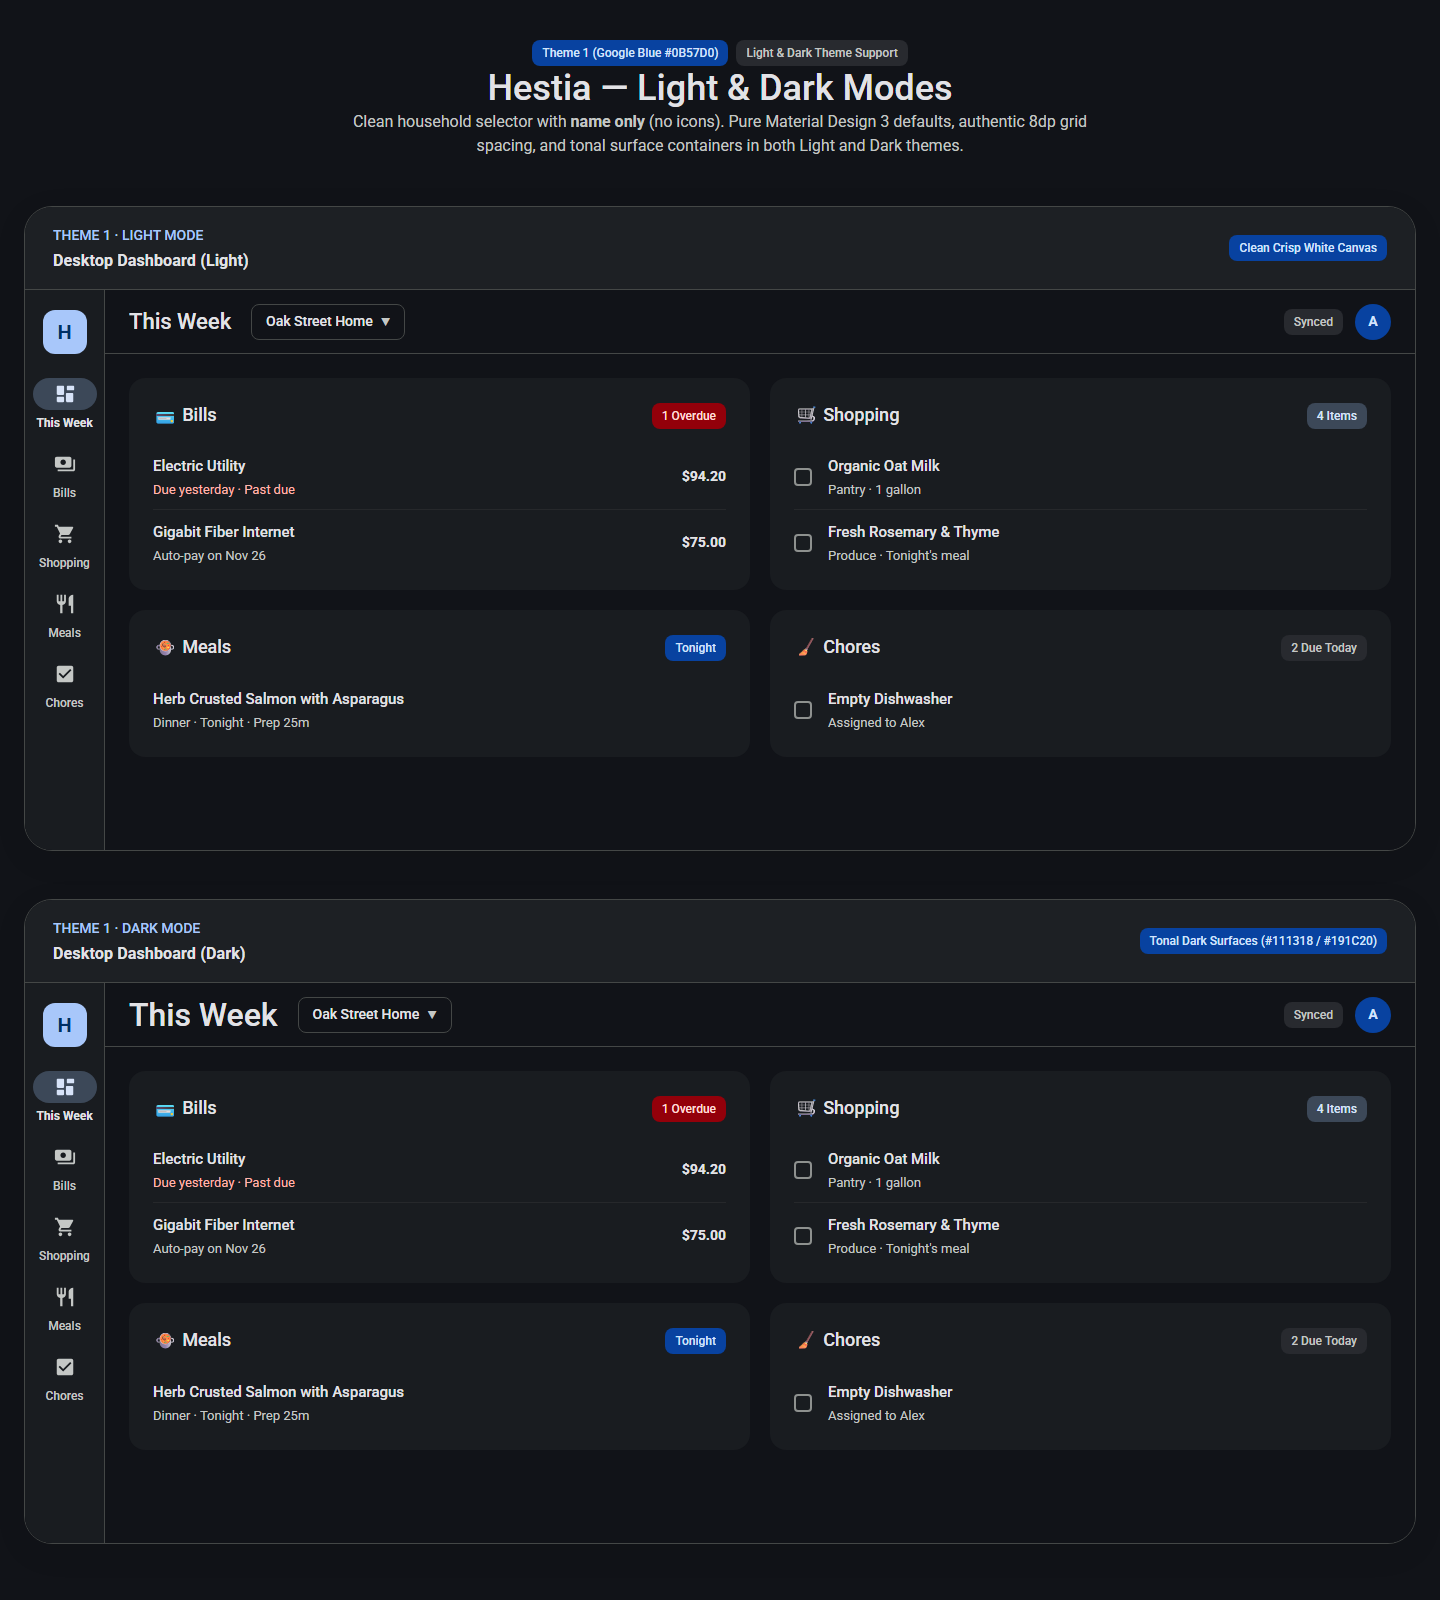
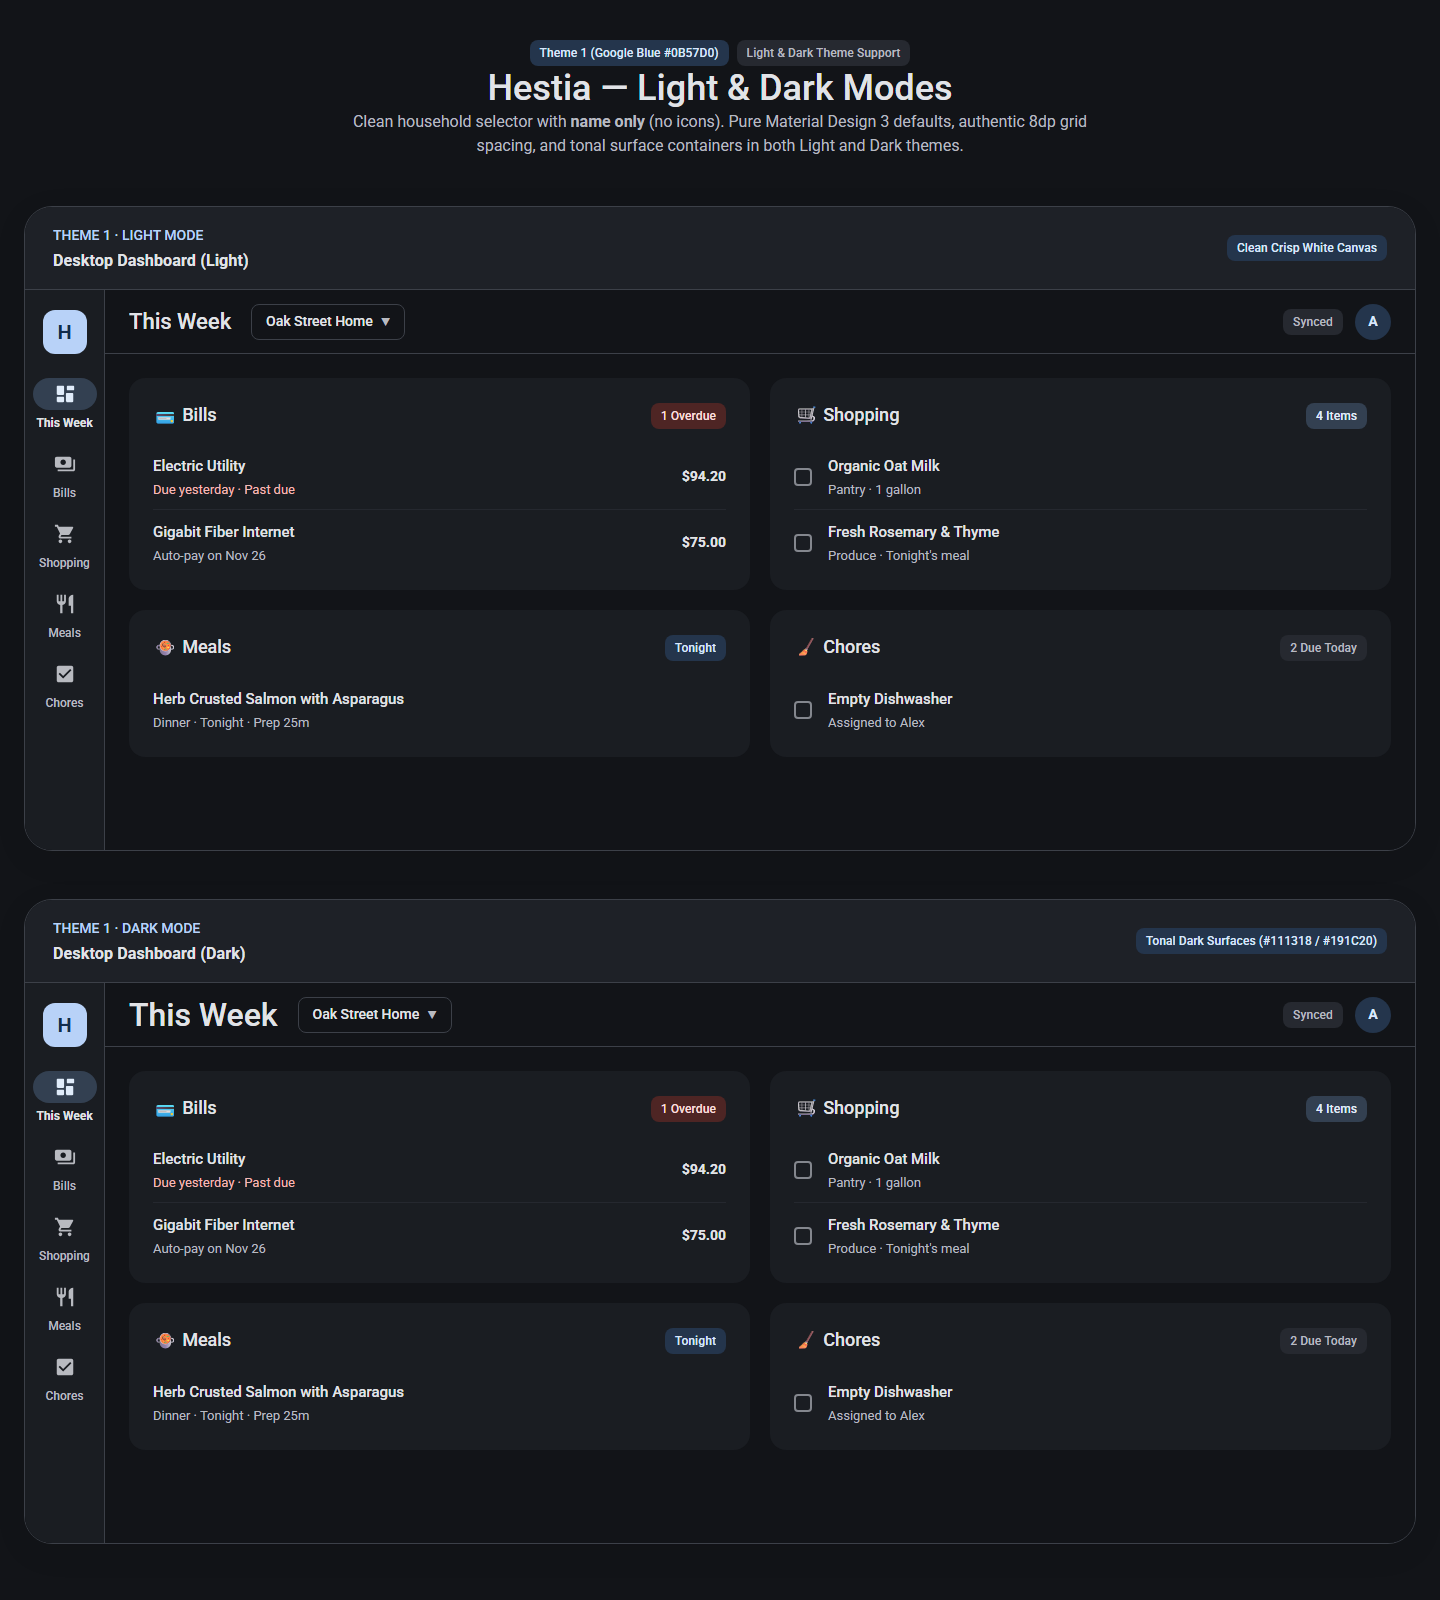
docs(web): tune dark mode to soft pastel palette

diff --git a/.planning/spikes/006-theme-1-light-dark-showcase/theme1-tokens.css b/.planning/spikes/006-theme-1-light-dark-showcase/theme1-tokens.css
@@ -1,24 +1,24 @@
-/* Theme 1: Google Material 3 Blue (#0B57D0) — Light & Dark Specifications */
+/* Theme 1: Google Material 3 Blue — Refined Pastel Palette (Light & Dark) */
 
 :root {
   --md3-font: 'Roboto', system-ui, -apple-system, BlinkMacSystemFont, 'Segoe UI', sans-serif;
   color-scheme: light dark;
 
-  /* === LIGHT THEME === */
-  --md-sys-color-primary: #0b57d0;
+  /* === LIGHT THEME (Soft, Clean, Balanced) === */
+  --md-sys-color-primary: #1a73e8;
   --md-sys-color-on-primary: #ffffff;
   --md-sys-color-primary-container: #d3e3fd;
   --md-sys-color-on-primary-container: #041e49;
   
-  --md-sys-color-secondary: #535f70;
+  --md-sys-color-secondary: #576579;
   --md-sys-color-on-secondary: #ffffff;
-  --md-sys-color-secondary-container: #d7e3f8;
-  --md-sys-color-on-secondary-container: #101c2b;
+  --md-sys-color-secondary-container: #dbe4f4;
+  --md-sys-color-on-secondary-container: #141f2e;
   
-  --md-sys-color-tertiary: #6e5676;
+  --md-sys-color-tertiary: #715873;
   --md-sys-color-on-tertiary: #ffffff;
   --md-sys-color-tertiary-container: #f7d8ff;
-  --md-sys-color-on-tertiary-container: #271430;
+  --md-sys-color-on-tertiary-container: #29152d;
   
   --md-sys-color-error: #ba1a1a;
   --md-sys-color-on-error: #ffffff;
@@ -29,9 +29,9 @@
   --md-sys-color-surface-dim: #ded8e1;
   --md-sys-color-surface-bright: #ffffff;
   --md-sys-color-surface-container-lowest: #ffffff;
-  --md-sys-color-surface-container-low: #f7f9fc;
-  --md-sys-color-surface-container: #f0f4f9;
-  --md-sys-color-surface-container-high: #e9eef6;
+  --md-sys-color-surface-container-low: #f8fafd;
+  --md-sys-color-surface-container: #f1f4f9;
+  --md-sys-color-surface-container-high: #e9eef5;
   --md-sys-color-surface-container-highest: #e1e7f0;
   
   --md-sys-color-on-surface: #1f1f1f;
@@ -39,82 +39,84 @@
   --md-sys-color-outline: #747775;
   --md-sys-color-outline-variant: #c4c7c5;
 
-  /* Elevation (Soft M3 Ambient Tonal Elevation) */
-  --md-elevation-1: 0 1px 2px 0 rgba(0, 0, 0, 0.05), 0 1px 3px 1px rgba(0, 0, 0, 0.06);
-  --md-elevation-2: 0 2px 4px 0 rgba(0, 0, 0, 0.06), 0 2px 6px 2px rgba(0, 0, 0, 0.06);
-  --md-elevation-3: 0 4px 8px 3px rgba(0, 0, 0, 0.08), 0 1px 3px 0 rgba(0, 0, 0, 0.1);
+  /* Elevation (Soft Ambient Tonal Elevation) */
+  --md-elevation-1: 0 1px 2px 0 rgba(0, 0, 0, 0.04), 0 1px 3px 1px rgba(0, 0, 0, 0.05);
+  --md-elevation-2: 0 2px 4px 0 rgba(0, 0, 0, 0.05), 0 2px 6px 2px rgba(0, 0, 0, 0.05);
+  --md-elevation-3: 0 4px 8px 3px rgba(0, 0, 0, 0.06), 0 1px 3px 0 rgba(0, 0, 0, 0.08);
 }
 
-/* === DARK THEME === */
+/* === DARK THEME (Soft, Desaturated, Pastel Palette) === */
 [data-theme='dark'] {
   color-scheme: dark;
   
-  --md-sys-color-primary: #a8c7fa;
-  --md-sys-color-on-primary: #002f65;
-  --md-sys-color-primary-container: #0842a0;
-  --md-sys-color-on-primary-container: #d3e3fd;
+  /* Pastel Accent Colors */
+  --md-sys-color-primary: #b8d2f8; /* Soft Pastel Powder Blue */
+  --md-sys-color-on-primary: #122c4d;
+  --md-sys-color-primary-container: #24354c; /* Desaturated Slate-Blue Container */
+  --md-sys-color-on-primary-container: #d9e7fc;
   
-  --md-sys-color-secondary: #bdc7dc;
-  --md-sys-color-on-secondary: #253140;
-  --md-sys-color-secondary-container: #3c4858;
-  --md-sys-color-on-secondary-container: #d7e3f8;
+  --md-sys-color-secondary: #c2cfdf; /* Soft Pastel Slate */
+  --md-sys-color-on-secondary: #212c39;
+  --md-sys-color-secondary-container: #334051; /* Muted Navy Container */
+  --md-sys-color-on-secondary-container: #e0ecfa;
   
-  --md-sys-color-tertiary: #dabde2;
-  --md-sys-color-on-tertiary: #3d2846;
-  --md-sys-color-tertiary-container: #553e5d;
-  --md-sys-color-on-tertiary-container: #f7d8ff;
+  --md-sys-color-tertiary: #debfdc; /* Soft Pastel Mauve / Rose */
+  --md-sys-color-on-tertiary: #3a253a;
+  --md-sys-color-tertiary-container: #473549; /* Muted Plum Container */
+  --md-sys-color-on-tertiary-container: #f5def4;
   
-  --md-sys-color-error: #ffb4ab;
-  --md-sys-color-on-error: #690005;
-  --md-sys-color-error-container: #93000a;
-  --md-sys-color-on-error-container: #ffdad6;
+  --md-sys-color-error: #f2b8b5; /* Soft Pastel Blush / Coral */
+  --md-sys-color-on-error: #561e1b;
+  --md-sys-color-error-container: #4e2524; /* Muted Brick Container */
+  --md-sys-color-on-error-container: #f9dedc;
   
-  --md-sys-color-surface: #111318;
-  --md-sys-color-surface-dim: #111318;
-  --md-sys-color-surface-bright: #37393e;
-  --md-sys-color-surface-container-lowest: #0c0e13;
-  --md-sys-color-surface-container-low: #191c20;
-  --md-sys-color-surface-container: #1d2024;
-  --md-sys-color-surface-container-high: #282a2f;
-  --md-sys-color-surface-container-highest: #33353a;
+  /* Dark Surfaces (Soothing deep neutral tones, low eye strain) */
+  --md-sys-color-surface: #121418;
+  --md-sys-color-surface-dim: #121418;
+  --md-sys-color-surface-bright: #35383f;
+  --md-sys-color-surface-container-lowest: #0d0f13;
+  --md-sys-color-surface-container-low: #1a1d22;
+  --md-sys-color-surface-container: #1e2127;
+  --md-sys-color-surface-container-high: #262930;
+  --md-sys-color-surface-container-highest: #2f323a;
   
-  --md-sys-color-on-surface: #e2e2e6;
-  --md-sys-color-on-surface-variant: #c4c7c5;
-  --md-sys-color-outline: #8e918f;
-  --md-sys-color-outline-variant: #444746;
+  --md-sys-color-on-surface: #e1e3e7;
+  --md-sys-color-on-surface-variant: #b8bac0;
+  --md-sys-color-outline: #84878e;
+  --md-sys-color-outline-variant: #3c4048;
 }
 
 @media (prefers-color-scheme: dark) {
   :root:not([data-theme='light']) {
     color-scheme: dark;
-    --md-sys-color-primary: #a8c7fa;
-    --md-sys-color-on-primary: #002f65;
-    --md-sys-color-primary-container: #0842a0;
-    --md-sys-color-on-primary-container: #d3e3fd;
-    --md-sys-color-secondary: #bdc7dc;
-    --md-sys-color-on-secondary: #253140;
-    --md-sys-color-secondary-container: #3c4858;
-    --md-sys-color-on-secondary-container: #d7e3f8;
-    --md-sys-color-tertiary: #dabde2;
-    --md-sys-color-on-tertiary: #3d2846;
-    --md-sys-color-tertiary-container: #553e5d;
-    --md-sys-color-on-tertiary-container: #f7d8ff;
-    --md-sys-color-error: #ffb4ab;
-    --md-sys-color-on-error: #690005;
-    --md-sys-color-error-container: #93000a;
-    --md-sys-color-on-error-container: #ffdad6;
-    --md-sys-color-surface: #111318;
-    --md-sys-color-surface-dim: #111318;
-    --md-sys-color-surface-bright: #37393e;
-    --md-sys-color-surface-container-lowest: #0c0e13;
-    --md-sys-color-surface-container-low: #191c20;
-    --md-sys-color-surface-container: #1d2024;
-    --md-sys-color-surface-container-high: #282a2f;
-    --md-sys-color-surface-container-highest: #33353a;
-    --md-sys-color-on-surface: #e2e2e6;
-    --md-sys-color-on-surface-variant: #c4c7c5;
-    --md-sys-color-outline: #8e918f;
-    --md-sys-color-outline-variant: #444746;
+    --md-sys-color-primary: #b8d2f8;
+    --md-sys-color-on-primary: #122c4d;
+    --md-sys-color-primary-container: #24354c;
+    --md-sys-color-on-primary-container: #d9e7fc;
+    --md-sys-color-secondary: #c2cfdf;
+    --md-sys-color-on-secondary: #212c39;
+    --md-sys-color-secondary-container: #334051;
+    --md-sys-color-on-secondary-container: #e0ecfa;
+    --md-sys-color-tertiary: #debfdc;
+    --md-sys-color-on-tertiary: #3a253a;
+    --md-sys-color-tertiary-container: #473549;
+    --md-sys-color-on-tertiary-container: #f5def4;
+    --md-sys-color-error: #f2b8b5;
+    --md-sys-color-on-error: #561e1b;
+    --md-sys-color-error-container: #4e2524;
+    --md-sys-color-on-error-container: #f9dedc;
+    --md-sys-color-surface: #121418;
+    --md-sys-color-surface-dim: #121418;
+    --md-sys-color-surface-bright: #35383f;
+    --md-sys-color-surface-container-lowest: #0d0f13;
+    --md-sys-color-surface-container-low: #1a1d22;
+    --md-sys-color-surface-container: #1e2127;
+    --md-sys-color-surface-container-high: #262930;
+    --md-sys-color-surface-container-highest: #2f323a;
+    --md-sys-color-on-surface: #e1e3e7;
+    --md-sys-color-on-surface-variant: #b8bac0;
+    --md-sys-color-outline: #84878e;
+    --md-sys-color-outline-variant: #3c4048;
   }
 }
 
@@ -185,7 +187,7 @@ body {
   min-height: 56px;
   padding: 10px 0;
   border-bottom: 1px solid var(--md-sys-color-outline-variant);
-  border-bottom-color: color-mix(in srgb, var(--md-sys-color-outline-variant) 30%, transparent);
+  border-bottom-color: color-mix(in srgb, var(--md-sys-color-outline-variant) 35%, transparent);
 }
 .m3-list-item:last-child { border-bottom: none; padding-bottom: 0; }
 .m3-list-item-content { display: flex; align-items: center; gap: 16px; flex: 1; }
@@ -193,7 +195,7 @@ body {
 .m3-list-headline { font-size: 0.9375rem; font-weight: 500; color: var(--md-sys-color-on-surface); }
 .m3-list-supporting { font-size: 0.8125rem; font-weight: 400; color: var(--md-sys-color-on-surface-variant); }
 
-/* --- Official M3 House Selector Dropdown (Name Only + Subtle Arrow) --- */
+/* --- House Selector Dropdown (Name Only + Subtle Arrow) --- */
 .m3-household-selector {
   display: inline-flex;
   align-items: center;
@@ -218,7 +220,7 @@ body {
   color: var(--md-sys-color-on-surface-variant);
 }
 
-/* --- Badges & Chips --- */
+/* --- Pastel Badges & Chips --- */
 .m3-badge {
   display: inline-flex;
   align-items: center;
@@ -227,9 +229,11 @@ body {
   border-radius: 8px;
   font-size: 0.75rem;
   font-weight: 500;
+  letter-spacing: 0.1px;
 }
 .m3-badge-primary { background: var(--md-sys-color-primary-container); color: var(--md-sys-color-on-primary-container); }
 .m3-badge-secondary { background: var(--md-sys-color-secondary-container); color: var(--md-sys-color-on-secondary-container); }
+.m3-badge-tertiary { background: var(--md-sys-color-tertiary-container); color: var(--md-sys-color-on-tertiary-container); }
 .m3-badge-error { background: var(--md-sys-color-error-container); color: var(--md-sys-color-on-error-container); }
 .m3-badge-neutral { background: var(--md-sys-color-surface-container-high); color: var(--md-sys-color-on-surface-variant); }
 
